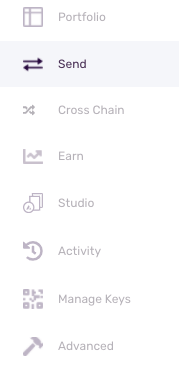
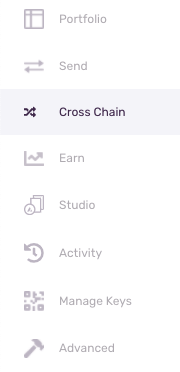
update getting started tutorial

diff --git a/src/routes/tutorials/getting-started.svelte b/src/routes/tutorials/getting-started.svelte
@@ -202,6 +202,37 @@
           <li><strong>Explorer</strong>: https://cchain.explorer.avax.network/</li>
         </ul>
       </li>
+      <li>
+        <h4 class="flex whitespace-pre-wrap group" id="add-png-to-metamask">
+          <a
+            href="#add-png-to-metamask"
+            class="absolute no-underline opacity-0 after:hash group-hover:opacity-100"
+            aria-label="Anchor"
+            style="margin-left: -1em; padding-right: 0.5em; box-shadow: none; color: rgb(161, 161, 170);"></a><span
+            >Add Pangolin (PNG) token to be displayed on your MetaMask</span
+          >
+        </h4>
+        <ol>
+          <li>
+            Select "Add Token"
+            <img src="/tutorials/getting-started/002.png" />
+          </li>
+          <li>
+            Select "Custom Token"
+            <img src="/tutorials/getting-started/003.png" />
+          </li>
+          <li>
+            Enter the following information into the available fields:
+            <ul>
+              <li>Token Contract Address: 0x60781C2586D68229fde47564546784ab3fACA982</li>
+              <li>Token Symbol: PNG</li>
+            </ul>
+          </li>
+          <li>Select "Next"</li>
+        </ol>
+
+        <p>You have now successfully added the Pangolin (PNG) token to be displayed on your MetaMask.</p>
+      </li>
     </ol>
 
     <h3 class="flex whitespace-pre-wrap group" id="fund-metamask">
@@ -232,11 +263,11 @@
       </li>
       <li>
         On the left, there is a list of options. Click "Cross-Chain"
-        <img src="/tutorials/getting-started/002.png" />
+        <img src="/tutorials/getting-started/004.png" />
       </li>
       <li>
         Choose the "C Chain (Contract)" as the destination chain
-        <img src="/tutorials/getting-started/003.png" />
+        <img src="/tutorials/getting-started/005.png" />
       </li>
       <li>Enter the amount you would like to transfer, and then click confirm</li>
       <li>
@@ -244,16 +275,16 @@
         <ol>
           <li>
             Select "Send"
-            <img src="/tutorials/getting-started/004.png" />
+            <img src="/tutorials/getting-started/006.png" />
           </li>
           <li>
             Select "C Contract" as the <i>Source Chain</i>
-            <img src="/tutorials/getting-started/005.png" />
+            <img src="/tutorials/getting-started/007.png" />
           </li>
           <li>
             Enter your MetaMask wallet address by copying and pasting it into the "To Address" field on your Avalanche
             wallet.
-            <img src="/tutorials/getting-started/006.png" />
+            <img src="/tutorials/getting-started/008.png" />
           </li>
           <li>Confirm and finalize the transaction.</li>
         </ol>
